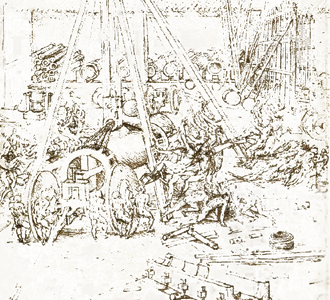
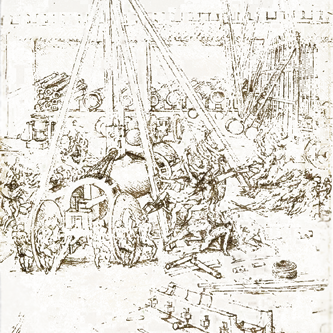
tweaking styling and layout on Company HR sign up page

diff --git a/app/assets/stylesheets/layout.css.scss b/app/assets/stylesheets/layout.css.scss
@@ -406,7 +406,10 @@ div.signup_page_body {
 
 #drawing_1 {
   float: right;
-  padding-left: 30px;
+  padding-right: 30px;
+  padding-left: 10px;
+  width: 250px;
+  height: 250px;
 }
 
 .text_drawing_container {
@@ -454,7 +457,7 @@ div#problems_with_status_quo {
   background-color: rgba(240,240,240, .5);
   width: 50%;
   margin: 0 auto;
-  padding: 10px;
+  padding: 20px;
 
   h2 {
     margin-bottom: 5px;
